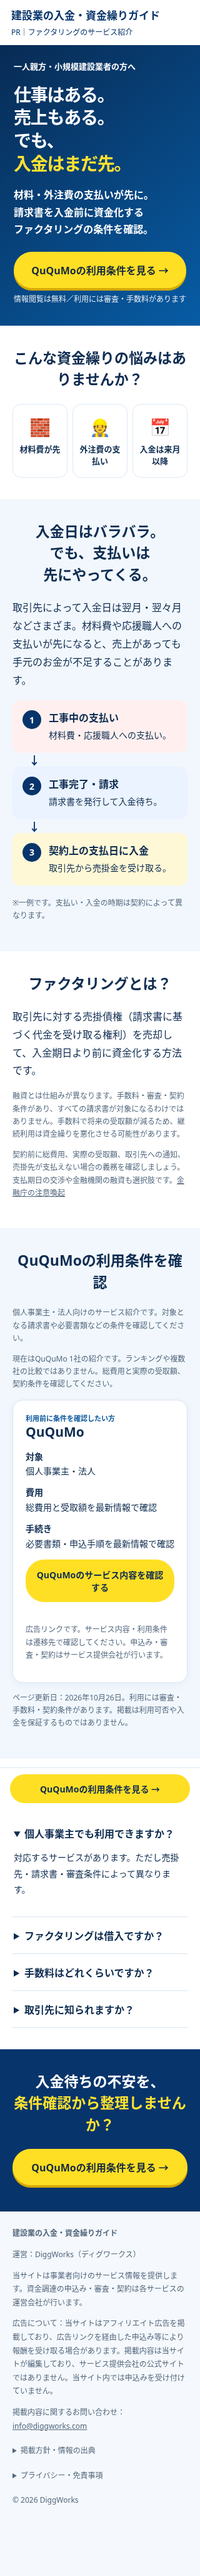
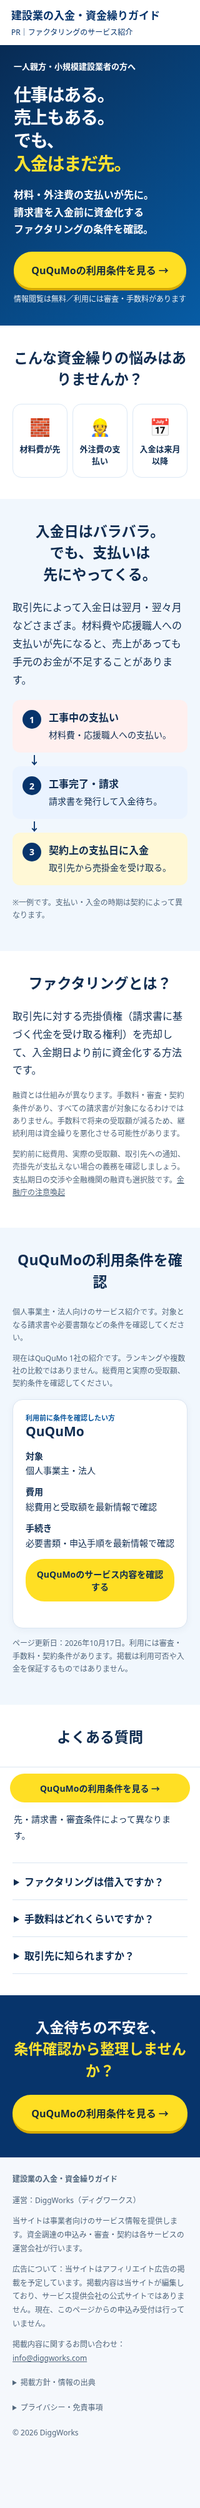
Keep issued A8 code inert pending confirmed placement and material conditions

Changed region(s): [[0.0, 0.0, 1.0, 0.9673]]

diff --git a/index.html b/index.html
@@ -1,4 +1,4 @@
-<!doctype html><html lang="ja"><head><meta charset="utf-8"><meta name="viewport" content="width=device-width,initial-scale=1"><meta name="theme-color" content="#07346b"><meta name="description" content="建設業の一人親方・個人事業主・法人向けに、支払いと入金のズレやファクタリングの注意点、QuQuMoの利用条件の確認ポイントを解説します。利用条件はリンク先で確認してください。"><title>建設業の入金待ちと資金繰り｜QuQuMo利用条件ガイド</title><meta name="robots" content="index,follow"><link rel="canonical" href="https://shikin.diggworks.com/"><meta property="og:type" content="website"><meta property="og:url" content="https://shikin.diggworks.com/"><meta property="og:title" content="建設業の入金待ちと資金繰り｜QuQuMo利用条件ガイド"><meta property="og:description" content="建設業の一人親方・個人事業主・法人向けに、支払いと入金のズレやファクタリングの注意点、QuQuMoの利用条件の確認ポイントを解説します。利用条件はリンク先で確認してください。"><style>
+<!doctype html><html lang="ja"><head><meta charset="utf-8"><meta name="viewport" content="width=device-width,initial-scale=1"><meta name="theme-color" content="#07346b"><meta name="description" content="建設業の一人親方・個人事業主・法人向けに、支払いと入金のズレやファクタリングの注意点、QuQuMoの利用条件の確認ポイントを解説します。申込みのご案内は準備中です。"><title>建設業の入金待ちと資金繰り｜QuQuMo利用条件ガイド</title><meta name="robots" content="index,follow"><link rel="canonical" href="https://shikin.diggworks.com/"><meta property="og:type" content="website"><meta property="og:url" content="https://shikin.diggworks.com/"><meta property="og:title" content="建設業の入金待ちと資金繰り｜QuQuMo利用条件ガイド"><meta property="og:description" content="建設業の一人親方・個人事業主・法人向けに、支払いと入金のズレやファクタリングの注意点、QuQuMoの利用条件の確認ポイントを解説します。申込みのご案内は準備中です。"><style>
 :root{font-family:system-ui,-apple-system,"Hiragino Kaku Gothic ProN","Noto Sans JP",sans-serif;color:#102d51;background:#f5f8fc}*{box-sizing:border-box}body{margin:0}a{color:inherit}header{background:white;padding:14px 18px;font-weight:900;color:#07346b}header small{display:block;font-size:11px;font-weight:500}.wrap{max-width:720px;margin:auto}.hero{background:linear-gradient(140deg,#082b54,#075ca5);color:white;padding:38px 22px 34px}.eyebrow{font-size:13px;font-weight:700}.hero h1{font-size:clamp(30px,8vw,49px);line-height:1.32;letter-spacing:-.045em;margin:18px 0}.yellow{color:#ffe231}.hero p{font-weight:650;line-height:1.7}.btn{display:block;text-align:center;border-radius:40px;background:#ffdf24;color:#14283d;text-decoration:none;font-weight:900;padding:17px 12px;margin:22px 0 8px;box-shadow:0 4px 0 #d5a900}.sub{font-size:12px;text-align:center;opacity:.9}section{padding:34px 20px;background:white}section:nth-of-type(even){background:#f1f7fd}h2{font-size:23px;line-height:1.5;text-align:center;margin:0 0 22px}.cards{display:grid;grid-template-columns:repeat(3,1fr);gap:8px}.mini{padding:17px 6px;border:1px solid #dce8f5;border-radius:14px;text-align:center;font-size:13px;font-weight:750;background:white}.mini b{display:block;font-size:27px;margin-bottom:7px}.timeline{display:flex;justify-content:space-between;gap:7px;margin:18px 0}.step{flex:1;text-align:center;background:#eaf3ff;border-radius:12px;padding:15px 5px;font-size:12px;font-weight:800}.step:first-child{background:#fff0ef}.note{font-size:12px;line-height:1.7;color:#52677d}.choice{display:flex;gap:10px}.choice button{flex:1;padding:17px 5px;border:2px solid #c7d8e9;border-radius:14px;background:white;font-weight:900;color:#12385f;font-size:16px;cursor:pointer}.choice button.active{border-color:#0963bf;background:#eaf4ff}.provider{border:1px solid #dbe5f1;border-radius:16px;padding:20px;margin:14px 0;background:white;box-shadow:0 3px 12px #143a5b0d}.provider h3{font-size:21px;margin:0 0 8px}.provider p{font-size:14px;line-height:1.7}.provider a{display:block;background:#ffdf24;border-radius:30px;padding:14px;text-align:center;font-weight:900;text-decoration:none}.tag{font-size:11px;color:#0b579d;font-weight:800}.faq details{padding:17px 2px;border-bottom:1px solid #d9e5f1}.faq summary{font-weight:800;cursor:pointer}.faq p{line-height:1.8;font-size:14px}footer{padding:24px 20px 100px;font-size:12px;line-height:1.8;color:#52677d}.sticky{position:fixed;bottom:0;left:0;right:0;padding:10px 16px;background:#fffffff2;border-top:1px solid #dce6f1;backdrop-filter:blur(8px)}.sticky a{display:block;max-width:680px;margin:auto;text-align:center;background:#ffdf24;border-radius:30px;padding:13px;text-decoration:none;font-weight:900}.hidden{display:none!important}@media(min-width:760px){.hero{border-radius:0 0 24px 24px}section{border-radius:20px;margin:12px 0}.sticky{display:none}}
 
 html{scroll-padding-bottom:90px}p{line-height:1.8}a,button,summary{touch-action:manipulation}a:focus-visible,button:focus-visible,summary:focus-visible{outline:3px solid #087ad2;outline-offset:4px}.hero h1{font-size:clamp(28px,7.5vw,49px)}.hero{padding-top:24px}.skip{position:absolute;top:-100px;background:white;padding:12px;z-index:10}.skip:focus{top:0}.policy{margin:18px 0}.provider .note{font-size:12px}.sticky{padding-bottom:calc(10px + env(safe-area-inset-bottom))}footer{padding-bottom:calc(110px + env(safe-area-inset-bottom))}@media(prefers-reduced-motion:reduce){html{scroll-behavior:auto}}
@@ -7,5 +7,5 @@ header strong{display:block;font-size:17px;line-height:1.5}header small{margin-t
 .payment-cycle{display:grid;grid-template-columns:minmax(0,1fr);gap:22px;list-style:none;padding:0}.payment-cycle .step{position:relative;display:flex;gap:12px;align-items:flex-start;text-align:left;padding:16px;font-size:14px}.cycle-number{display:grid;place-items:center;flex:0 0 30px;height:30px;border-radius:50%;background:#07346b;color:white;font-size:14px}.payment-cycle .step:last-child{background:#fff8d6}.payment-cycle .step strong{display:block;font-size:16px;line-height:1.5}.payment-cycle .step div{min-width:0}.payment-cycle .step div>span{display:block;margin-top:4px;font-weight:400;line-height:1.7}.payment-cycle .step:not(:last-child)::after{content:"↓";position:absolute;left:26px;bottom:-23px;line-height:22px;color:#07346b;font-size:18px}
 .provider-preview{display:block;width:100%;border:0;background:#ffdf24;color:#14283d;border-radius:30px;padding:14px;text-align:center;font:inherit;font-size:14px;font-weight:900;cursor:not-allowed;overflow-wrap:anywhere}
 #ququmo-affiliate-slot img{width:1px;height:1px;max-width:1px;max-height:1px;border:0}
-</style></head><body><a class="skip" href="#compare">サービス情報へ進む</a><div class="wrap"><header><strong>建設業の入金・資金繰りガイド</strong><small>PR｜ファクタリングのサービス紹介</small></header><main><div class="hero"><div class="eyebrow">一人親方・小規模建設業者の方へ</div><h1>仕事はある。<br>売上もある。<br>でも、<br><span class="yellow">入金はまだ先。</span></h1><p>材料・外注費の支払いが先に。<br>請求書を入金前に資金化する<br>ファクタリングの条件を確認。</p><a class="btn" href="#compare" data-track="hero_compare">QuQuMoの利用条件を見る →</a><div class="sub">情報閲覧は無料／利用には審査・手数料があります</div></div><section><h2>こんな資金繰りの悩みはありませんか？</h2><div class="cards"><div class="mini"><b>🧱</b>材料費が先</div><div class="mini"><b>👷</b>外注費の支払い</div><div class="mini"><b>📅</b>入金は来月以降</div></div></section><section><h2>入金日はバラバラ。<br>でも、支払いは<br>先にやってくる。</h2><p>取引先によって入金日は翌月・翌々月などさまざま。材料費や応援職人への支払いが先になると、売上があっても手元のお金が不足することがあります。</p><ol class="timeline payment-cycle" aria-label="支払いから入金までの流れ"><li class="step"><span class="cycle-number" aria-hidden="true">1</span><div><strong>工事中の支払い</strong><span>材料費・応援職人への支払い。</span></div></li><li class="step"><span class="cycle-number" aria-hidden="true">2</span><div><strong>工事完了・請求</strong><span>請求書を発行して入金待ち。</span></div></li><li class="step"><span class="cycle-number" aria-hidden="true">3</span><div><strong>契約上の支払日に入金</strong><span>取引先から売掛金を受け取る。</span></div></li></ol><p class="note">※一例です。支払い・入金の時期は契約によって異なります。</p></section><section><h2>ファクタリングとは？</h2><p>取引先に対する売掛債権（請求書に基づく代金を受け取る権利）を売却して、入金期日より前に資金化する方法です。</p><p class="note">融資とは仕組みが異なります。手数料・審査・契約条件があり、すべての請求書が対象になるわけではありません。手数料で将来の受取額が減るため、継続利用は資金繰りを悪化させる可能性があります。</p><p class="note">契約前に総費用、実際の受取額、取引先への通知、売掛先が支払えない場合の義務を確認しましょう。支払期日の交渉や金融機関の融資も選択肢です。<a href="https://www.fsa.go.jp/user/factoring.html" rel="noopener">金融庁の注意喚起</a></p></section><section id="compare"><h2>QuQuMoの利用条件を確認</h2><div class="choice" hidden><button type="button" class="active" data-type="individual" aria-pressed="true">個人事業主</button><button type="button" data-type="corporate" aria-pressed="false">法人</button></div><p class="note" id="choice-note" aria-live="polite">個人事業主・法人向けのサービス紹介です。利用には審査があります。</p><p class="note">現在はQuQuMo 1社の紹介です。ランキングや複数社の比較ではありません。総費用と実際の受取額、契約条件を確認してください。</p><div id="provider-list"><article class="provider" data-audience="individual corporate" data-card="ququmo"><div class="tag">利用前に条件を確認したい方</div><h3>QuQuMo</h3><dl><dt>対象</dt><dd>個人事業主・法人</dd><dt>費用</dt><dd>総費用と受取額を最新情報で確認</dd><dt>手続き</dt><dd>必要書類・申込手順を最新情報で確認</dd></dl><div id="ququmo-affiliate-slot" data-status="active"><a href="https://px.a8.net/svt/ejp?a8mat=4BEFL9+A9Q87U+4JGG+BWVTE" rel="nofollow">QuQuMoのサービス内容を確認する</a>
-<img border="0" width="1" height="1" src="https://www14.a8.net/0.gif?a8mat=4BEFL9+A9Q87U+4JGG+BWVTE" alt=""><p class="note">広告リンクです。サービス内容・利用条件は遷移先で確認してください。申込み・審査・契約はサービス提供会社が行います。</p></div></article><article class="provider" data-audience="individual corporate" data-card="accel" data-release-state="pending" hidden><div class="tag">担当者に条件を相談したい方</div><h3>アクセルファクター</h3><dl><dt>対象</dt><dd>個人事業主・法人</dd><dt>費用</dt><dd>0.5%〜。契約方式・審査で変動</dd><dt>手続き</dt><dd>書類・電話確認が必要。必要額と売掛金の条件を確認</dd></dl><a href="https://accelfacter.co.jp/service/encashment.php" data-provider="accel" data-track="compare_accel" rel="noopener">アクセルファクターの公式条件を確認 →</a></article><article class="provider" data-audience="corporate" data-card="mynavi" data-release-state="pending" hidden><div class="tag">法人向けの見積もりを比較したい方</div><h3>マイナビブリッジ</h3><dl><dt>対象</dt><dd>法人</dd><dt>費用</dt><dd>申込条件と総費用を公式ページで確認</dd><dt>手続き</dt><dd>本人確認書類などが必要。希望金額に合う申込窓口を確認</dd></dl><a href="https://mynavibridge.jp/asp/factoring" data-provider="mynavi" data-track="compare_mynavi" rel="noopener">マイナビブリッジの公式条件を確認 →</a></article><article class="provider" data-audience="individual corporate" data-card="support" data-release-state="pending" hidden><div class="tag">資金繰りの相談先を比較したい方</div><h3>日本中小企業金融サポート機構</h3><dl><dt>対象</dt><dd>個人事業主・法人</dd><dt>費用</dt><dd>契約方式・見積もりによる</dd><dt>手続き</dt><dd>売掛金の内容・必要書類・契約方法を確認</dd></dl><a href="https://chushokigyo-support.or.jp/support/factoring/" data-provider="support" data-track="compare_support" rel="noopener">日本中小企業金融サポート機構の公式条件を確認 →</a></article><article class="provider" data-audience="corporate" data-card="try" data-release-state="pending" hidden><div class="tag">法人向けの別の相談先も見たい方</div><h3>ファクタリングのTRY</h3><dl><dt>対象</dt><dd>法人向け比較候補</dd><dt>費用</dt><dd>見積もりによる</dd><dt>手続き</dt><dd>売掛金・必要書類を確認し、審査を経て契約</dd></dl><a href="https://www.factoring-try-sko.co.jp/" data-provider="try" data-track="compare_try" rel="noopener">ファクタリングのTRYの公式条件を確認 →</a></article></div><button id="more-providers" type="button" aria-expanded="false" aria-controls="provider-list" hidden>法人向けの追加候補を見る（2社）</button><p class="note">ページ更新日：2026年10月26日。利用には審査・手数料・契約条件があります。掲載は利用可否や入金を保証するものではありません。</p><noscript><p class="note">JavaScriptが無効なため操作計測は行いません。QuQuMoの紹介のみ表示しています。利用条件はリンク先で確認してください。</p></noscript></section><section class="faq"><h2>よくある質問</h2><details><summary>個人事業主でも利用できますか？</summary><p>対応するサービスがあります。ただし売掛先・請求書・審査条件によって異なります。</p></details><details><summary>ファクタリングは借入ですか？</summary><p>一般的な債権売買型ファクタリングは融資とは異なります。契約内容によって実態が異なる場合があるため確認が必要です。</p></details><details><summary>手数料はどれくらいですか？</summary><p>売掛先や審査内容、契約形態で変わります。見積額だけでなく受取額と契約条件を比較しましょう。</p></details><details><summary>取引先に知られますか？</summary><p>契約方式によって異なります。通知の有無や債権譲渡登記など、事前に確認してください。</p></details></section><section style="background:#07346b;color:white"><h2>入金待ちの不安を、<br><span class="yellow">条件確認から整理しませんか？</span></h2><a class="btn" href="#compare" data-track="bottom_compare">QuQuMoの利用条件を見る →</a></section></main><footer id="operator"><strong>建設業の入金・資金繰りガイド</strong><p>運営：DiggWorks（ディグワークス）</p><p>当サイトは事業者向けのサービス情報を提供します。資金調達の申込み・審査・契約は各サービスの運営会社が行います。</p><p>広告について：当サイトはアフィリエイト広告を掲載しており、広告リンクを経由した申込み等により報酬を受け取る場合があります。掲載内容は当サイトが編集しており、サービス提供会社の公式サイトではありません。当サイト内では申込みを受け付けていません。</p><p id="contact">掲載内容に関するお問い合わせ：<a href="mailto:info@diggworks.com">info@diggworks.com</a></p><details class="policy"><summary>掲載方針・情報の出典</summary><p>建設業の入金待ちを整理するため、QuQuMoの利用条件を確認する情報を掲載しています。現在は1社の紹介で、複数社のランキングではありません。総費用・受取額・必要書類・契約条件を確認して判断してください。</p><p>公式情報の過去の確認日：2026年10月14日。参照先は https://ququmo.com/ です。サービス条件の最新確認は未完了です。利用前には最新の対象条件・総費用・必要書類を確認してください。</p></details><details class="policy"><summary>プライバシー・免責事項</summary><p>当サイトはアクセス状況の把握と改善のため、JavaScriptが有効な場合にGoogle Analyticsを使用します。Cookie等によりアクセス情報が収集される場合があります。当サイトの操作イベントではURLのクエリ・フラグメントを除外し、氏名・メールアドレス・電話番号・請求書情報を送信項目に含めません。</p><p>詳しくは<a href="https://policies.google.com/privacy?hl=ja" rel="noopener">Googleのプライバシーポリシー</a>と<a href="https://policies.google.com/technologies/partner-sites?hl=ja" rel="noopener">Googleによるデータの利用</a>をご確認ください。アクセス解析の停止には<a href="https://tools.google.com/dlpage/gaoptout?hl=ja" rel="noopener">Googleのオプトアウトアドオン</a>を利用できます。</p><p>QuQuMoの広告リンクと1px計測画像にはA8.netを使用します。ページ表示時に計測画像が読み込まれ、広告リンクのクリック時にはA8.netを経由して外部サイトへ移動します。A8.net側でCookie等を用いた広告計測が行われる場合があります。詳しくは<a href="https://www.a8.net/privacy.html" rel="noopener">A8.netのプライバシーポリシー</a>をご確認ください。配信元のGitHub Pagesではアクセス情報が処理される場合があります。お問い合わせは上記の運営者連絡先へお願いします。</p><p>利用可否、手数料、入金時期は各社の審査・契約によります。本ページに申込フォームはなく、利用条件はリンク先で確認してください。契約前には最新の公式情報と見積もりを確認してください。</p></details>© 2026 DiggWorks</footer></div><div class="sticky"><a href="#compare" data-track="sticky_compare">QuQuMoの利用条件を見る →</a></div><script src="assets/config.js" defer></script><script src="assets/analytics.js" defer></script></body></html>
+</style></head><body><a class="skip" href="#compare">サービス情報へ進む</a><div class="wrap"><header><strong>建設業の入金・資金繰りガイド</strong><small>PR｜ファクタリングのサービス紹介</small></header><main><div class="hero"><div class="eyebrow">一人親方・小規模建設業者の方へ</div><h1>仕事はある。<br>売上もある。<br>でも、<br><span class="yellow">入金はまだ先。</span></h1><p>材料・外注費の支払いが先に。<br>請求書を入金前に資金化する<br>ファクタリングの条件を確認。</p><a class="btn" href="#compare" data-track="hero_compare">QuQuMoの利用条件を見る →</a><div class="sub">情報閲覧は無料／利用には審査・手数料があります</div></div><section><h2>こんな資金繰りの悩みはありませんか？</h2><div class="cards"><div class="mini"><b>🧱</b>材料費が先</div><div class="mini"><b>👷</b>外注費の支払い</div><div class="mini"><b>📅</b>入金は来月以降</div></div></section><section><h2>入金日はバラバラ。<br>でも、支払いは<br>先にやってくる。</h2><p>取引先によって入金日は翌月・翌々月などさまざま。材料費や応援職人への支払いが先になると、売上があっても手元のお金が不足することがあります。</p><ol class="timeline payment-cycle" aria-label="支払いから入金までの流れ"><li class="step"><span class="cycle-number" aria-hidden="true">1</span><div><strong>工事中の支払い</strong><span>材料費・応援職人への支払い。</span></div></li><li class="step"><span class="cycle-number" aria-hidden="true">2</span><div><strong>工事完了・請求</strong><span>請求書を発行して入金待ち。</span></div></li><li class="step"><span class="cycle-number" aria-hidden="true">3</span><div><strong>契約上の支払日に入金</strong><span>取引先から売掛金を受け取る。</span></div></li></ol><p class="note">※一例です。支払い・入金の時期は契約によって異なります。</p></section><section><h2>ファクタリングとは？</h2><p>取引先に対する売掛債権（請求書に基づく代金を受け取る権利）を売却して、入金期日より前に資金化する方法です。</p><p class="note">融資とは仕組みが異なります。手数料・審査・契約条件があり、すべての請求書が対象になるわけではありません。手数料で将来の受取額が減るため、継続利用は資金繰りを悪化させる可能性があります。</p><p class="note">契約前に総費用、実際の受取額、取引先への通知、売掛先が支払えない場合の義務を確認しましょう。支払期日の交渉や金融機関の融資も選択肢です。<a href="https://www.fsa.go.jp/user/factoring.html" rel="noopener">金融庁の注意喚起</a></p></section><section id="compare"><h2>QuQuMoの利用条件を確認</h2><div class="choice" hidden><button type="button" class="active" data-type="individual" aria-pressed="true">個人事業主</button><button type="button" data-type="corporate" aria-pressed="false">法人</button></div><p class="note" id="choice-note" aria-live="polite">個人事業主・法人向けのサービス紹介です。利用には審査があります。</p><p class="note">現在はQuQuMo 1社の紹介です。ランキングや複数社の比較ではありません。総費用と実際の受取額、契約条件を確認してください。</p><div id="provider-list"><article class="provider" data-audience="individual corporate" data-card="ququmo"><div class="tag">利用前に条件を確認したい方</div><h3>QuQuMo</h3><dl><dt>対象</dt><dd>個人事業主・法人</dd><dt>費用</dt><dd>総費用と受取額を最新情報で確認</dd><dt>手続き</dt><dd>必要書類・申込手順を最新情報で確認</dd></dl><div id="ququmo-affiliate-slot" data-status="pending"><button class="provider-preview" type="button" data-provider="ququmo" data-track="compare_ququmo" data-preview-cta="true" data-public-url="https://ququmo.com/" aria-disabled="true">QuQuMoのサービス内容を確認する</button><p class="note">ご案内は準備中です。現在、このページからお申込みいただくことはできません。</p><template id="ququmo-a8-code"><a href="https://px.a8.net/svt/ejp?a8mat=4BEFL9+A9Q87U+4JGG+BWVTE" rel="nofollow">キャッチコピーやサービス内容＋【サービス名】をご入力下さい。</a>
+<img border="0" width="1" height="1" src="https://www14.a8.net/0.gif?a8mat=4BEFL9+A9Q87U+4JGG+BWVTE" alt=""></template></div></article><article class="provider" data-audience="individual corporate" data-card="accel" data-release-state="pending" hidden><div class="tag">担当者に条件を相談したい方</div><h3>アクセルファクター</h3><dl><dt>対象</dt><dd>個人事業主・法人</dd><dt>費用</dt><dd>0.5%〜。契約方式・審査で変動</dd><dt>手続き</dt><dd>書類・電話確認が必要。必要額と売掛金の条件を確認</dd></dl><a href="https://accelfacter.co.jp/service/encashment.php" data-provider="accel" data-track="compare_accel" rel="noopener">アクセルファクターの公式条件を確認 →</a></article><article class="provider" data-audience="corporate" data-card="mynavi" data-release-state="pending" hidden><div class="tag">法人向けの見積もりを比較したい方</div><h3>マイナビブリッジ</h3><dl><dt>対象</dt><dd>法人</dd><dt>費用</dt><dd>申込条件と総費用を公式ページで確認</dd><dt>手続き</dt><dd>本人確認書類などが必要。希望金額に合う申込窓口を確認</dd></dl><a href="https://mynavibridge.jp/asp/factoring" data-provider="mynavi" data-track="compare_mynavi" rel="noopener">マイナビブリッジの公式条件を確認 →</a></article><article class="provider" data-audience="individual corporate" data-card="support" data-release-state="pending" hidden><div class="tag">資金繰りの相談先を比較したい方</div><h3>日本中小企業金融サポート機構</h3><dl><dt>対象</dt><dd>個人事業主・法人</dd><dt>費用</dt><dd>契約方式・見積もりによる</dd><dt>手続き</dt><dd>売掛金の内容・必要書類・契約方法を確認</dd></dl><a href="https://chushokigyo-support.or.jp/support/factoring/" data-provider="support" data-track="compare_support" rel="noopener">日本中小企業金融サポート機構の公式条件を確認 →</a></article><article class="provider" data-audience="corporate" data-card="try" data-release-state="pending" hidden><div class="tag">法人向けの別の相談先も見たい方</div><h3>ファクタリングのTRY</h3><dl><dt>対象</dt><dd>法人向け比較候補</dd><dt>費用</dt><dd>見積もりによる</dd><dt>手続き</dt><dd>売掛金・必要書類を確認し、審査を経て契約</dd></dl><a href="https://www.factoring-try-sko.co.jp/" data-provider="try" data-track="compare_try" rel="noopener">ファクタリングのTRYの公式条件を確認 →</a></article></div><button id="more-providers" type="button" aria-expanded="false" aria-controls="provider-list" hidden>法人向けの追加候補を見る（2社）</button><p class="note">ページ更新日：2026年10月17日。利用には審査・手数料・契約条件があります。掲載は利用可否や入金を保証するものではありません。</p><noscript><p class="note">JavaScriptが無効なため操作計測は行いません。QuQuMoの紹介のみ表示しています。申込みのご案内は準備中です。</p></noscript></section><section class="faq"><h2>よくある質問</h2><details><summary>個人事業主でも利用できますか？</summary><p>対応するサービスがあります。ただし売掛先・請求書・審査条件によって異なります。</p></details><details><summary>ファクタリングは借入ですか？</summary><p>一般的な債権売買型ファクタリングは融資とは異なります。契約内容によって実態が異なる場合があるため確認が必要です。</p></details><details><summary>手数料はどれくらいですか？</summary><p>売掛先や審査内容、契約形態で変わります。見積額だけでなく受取額と契約条件を比較しましょう。</p></details><details><summary>取引先に知られますか？</summary><p>契約方式によって異なります。通知の有無や債権譲渡登記など、事前に確認してください。</p></details></section><section style="background:#07346b;color:white"><h2>入金待ちの不安を、<br><span class="yellow">条件確認から整理しませんか？</span></h2><a class="btn" href="#compare" data-track="bottom_compare">QuQuMoの利用条件を見る →</a></section></main><footer id="operator"><strong>建設業の入金・資金繰りガイド</strong><p>運営：DiggWorks（ディグワークス）</p><p>当サイトは事業者向けのサービス情報を提供します。資金調達の申込み・審査・契約は各サービスの運営会社が行います。</p><p>広告について：当サイトはアフィリエイト広告の掲載を予定しています。掲載内容は当サイトが編集しており、サービス提供会社の公式サイトではありません。現在、このページからの申込み受付は行っていません。</p><p id="contact">掲載内容に関するお問い合わせ：<a href="mailto:info@diggworks.com">info@diggworks.com</a></p><details class="policy"><summary>掲載方針・情報の出典</summary><p>建設業の入金待ちを整理するため、QuQuMoの利用条件を確認する情報を掲載しています。現在は1社の紹介で、複数社のランキングではありません。総費用・受取額・必要書類・契約条件を確認して判断してください。</p><p>公式情報の過去の確認日：2026年10月14日。参照先は https://ququmo.com/ です。サービス条件の最新確認は未完了です。利用前には最新の対象条件・総費用・必要書類を確認してください。</p></details><details class="policy"><summary>プライバシー・免責事項</summary><p>当サイトはアクセス状況の把握と改善のため、JavaScriptが有効な場合にGoogle Analyticsを使用します。Cookie等によりアクセス情報が収集される場合があります。当サイトの操作イベントではURLのクエリ・フラグメントを除外し、氏名・メールアドレス・電話番号・請求書情報を送信項目に含めません。</p><p>詳しくは<a href="https://policies.google.com/privacy?hl=ja" rel="noopener">Googleのプライバシーポリシー</a>と<a href="https://policies.google.com/technologies/partner-sites?hl=ja" rel="noopener">Googleによるデータの利用</a>をご確認ください。アクセス解析の停止には<a href="https://tools.google.com/dlpage/gaoptout?hl=ja" rel="noopener">Googleのオプトアウトアドオン</a>を利用できます。</p><p>広告リンクによる外部送客は現在停止しています。配信元のGitHub Pagesではアクセス情報が処理される場合があります。お問い合わせは上記の運営者連絡先へお願いします。</p><p>利用可否、手数料、入金時期は各社の審査・契約によります。本ページに申込フォームはなく、申込みのご案内は準備中です。契約前には最新の公式情報と見積もりを確認してください。</p></details>© 2026 DiggWorks</footer></div><div class="sticky"><a href="#compare" data-track="sticky_compare">QuQuMoの利用条件を見る →</a></div><script src="assets/config.js" defer></script><script src="assets/analytics.js" defer></script></body></html>

diff --git a/assets/config.js b/assets/config.js
@@ -4,5 +4,5 @@ window.LP_CONFIG = {
   contactEmail: 'info@diggworks.com', // Verified public operator inbox
   pageVersion: '20261026-a8-candidate',
   activeProviders: ['ququmo'], // Other provider records are retained, not approved for display.
-  previewMode: true // Retain the stop for legacy provider controls; the explicit QuQuMo A8 slot is separate.
+  previewMode: true // Keep all visible provider CTAs inactive pending placement/material conditions.
 };

diff --git a/scripts/check-static.py b/scripts/check-static.py
@@ -1,35 +1,42 @@
 from html.parser import HTMLParser
 from pathlib import Path
-
 LINK='https://px.a8.net/svt/ejp?a8mat=4BEFL9+A9Q87U+4JGG+BWVTE'
 PIXEL='https://www14.a8.net/0.gif?a8mat=4BEFL9+A9Q87U+4JGG+BWVTE'
 class Page(HTMLParser):
     def __init__(self):
-        super().__init__(); self.ids=set(); self.links=[]; self.scripts=[]; self.cards={}; self.resources=[]; self.ad_links=[]; self.pixels=[]; self.active_slot=False
+        super().__init__(); self.ids=set(); self.links=[]; self.scripts=[]; self.cards={}; self.resources=[]; self.ad_links=[]; self.pixels=[]; self.pending=False; self.depth=0; self.preview=[]; self.material_text=[]
     def handle_starttag(self,tag,attrs):
         a=dict(attrs)
+        if tag=='template': self.depth+=1
         if 'id' in a:
-            assert a['id'] not in self.ids, 'duplicate ID'
+            assert a['id'] not in self.ids
             self.ids.add(a['id'])
-        if tag=='a':
-            self.links.append(a.get('href',''))
-            if 'a8mat' in a.get('href','') or 'px.a8.net' in a.get('href',''): self.ad_links.append(a)
+        if self.depth:
+            if tag=='a': self.ad_links.append(a)
+            elif tag=='img': self.pixels.append(a)
+            else: assert tag=='template'
+            return
+        if tag=='a': self.links.append(a.get('href',''))
         if tag=='script' and 'src' in a: self.scripts.append(a['src'])
-        if 'src' in a:
-            self.resources.append(a['src'])
-            if 'a8.net' in a['src']: self.pixels.append(a)
-        if a.get('id')=='ququmo-affiliate-slot': self.active_slot=a.get('data-status')=='active'
+        if 'src' in a: self.resources.append(a['src'])
+        if a.get('id')=='ququmo-affiliate-slot': self.pending=a.get('data-status')=='pending'
         if 'data-card' in a: self.cards[a['data-card']]='hidden' in a
+        if a.get('data-preview-cta')=='true': self.preview.append(a)
+    def handle_endtag(self,tag):
+        if tag=='template':self.depth-=1
+    def handle_data(self,data):
+        if self.depth and data.strip():self.material_text.append(data.strip())
 p=Page();p.feed(Path('index.html').read_text())
 for link in p.links:
-    assert link, 'empty href'
-    if link.startswith('#'): assert link[1:] in p.ids, link
-for source in p.scripts: assert Path(source).is_file(), source
+    assert link
+    if link.startswith('#'): assert link[1:] in p.ids
+for source in p.scripts: assert Path(source).is_file()
 assert Path('CNAME').read_text().strip()=='shikin.diggworks.com'
 assert p.cards=={'ququmo':False,'accel':True,'mynavi':True,'support':True,'try':True}
-# Exact issued URLs and attributes; no extra parameters, lazy-loading, or duplicate pixel.
 assert p.ad_links==[{'href':LINK,'rel':'nofollow'}]
 assert p.pixels==[{'border':'0','width':'1','height':'1','src':PIXEL,'alt':''}]
-assert p.active_slot and 'ququmo-a8-code' not in p.ids
-assert not any('ququmo.com' in x for x in p.links)
-print('PASS: internal targets, assets, CNAME, exact single A8 link/pixel, retained hidden providers')
+assert p.material_text==['キャッチコピーやサービス内容＋【サービス名】をご入力下さい。']
+assert p.pending and 'ququmo-a8-code' in p.ids
+assert len(p.preview)==1 and p.preview[0]['aria-disabled']=='true'
+assert not any('a8.net' in u or 'a8mat' in u or 'ququmo.com' in u for u in p.links+p.resources)
+print('PASS: exact original A8 code held inert; no live link/pixel, stopped CTA, internal targets/assets/CNAME, other providers hidden')

diff --git a/docs/ququmo-a8-review-20261026.md b/docs/ququmo-a8-review-20261026.md
@@ -1,62 +1,75 @@
-# QuQuMo A8リンク実装候補・公開判定
+# QuQuMo A8原文コードの保持・実装準備レビュー
 
 確認日: 2026-10-26（日本時間）。基準main: `58a51813aa70cbbfcb31e2feb21ffa3dd4172f0c`。
-ブランチ: `feat/ququmo-a8-link-20261026`。このブランチは広告リンク稼働の候補で、main未反映。
+ブランチ: `feat/ququmo-a8-link-20261026`。**停止状態の実装準備。main未反映。**
 
-## 承認範囲と判定
+## 公開判定と承認範囲
 
-利用者は今回の変更のPR・mainマージ・GitHub Pages公開・必要最小限の通常遷移確認を承認した。検索広告の出稿・課金、申込み、問い合わせ送信は対象外。掲載条件が残ればPRまで進め、稼働化マージは保留するという指示を優先する。
+利用者は当初、条件を満たした場合のPR・mainマージ・GitHub Pages公開・必要最小限の通常遷移確認を承認した。その後、下記の確認範囲を共有し、**現在は条件確認済みとして公開・送客開始せず、原文コードを保持した実装準備まで**と指定した。最新指示を優先し、mainマージ・本番反映・実クリックは行わない。検索広告の出稿・課金、申込み、問い合わせ送信も対象外。
 
-**現時点はマージ保留。** 過去の記録には現在のドメイン・掲載面での通常掲載可否とコード/素材取扱いが未確認として残る。今回、A8発行コード一式は利用者から受領した。提携状況は過去資料による利用者申告で、アカウント画面の独立確認ではない。発行コード受領から比較/紹介LPの個別許可を推定しない。一方、検索広告の許可未確認を通常掲載禁止の根拠にしない。
+初回候補コミット`909d5ec`には稼働候補があったが、最新headでは停止状態に戻した。古いコミットを公開対象にしない。
 
-### 公開前に解消する確認
+## 確認済み（利用者申告、2026-10-26）
 
-1. shikin.diggworks.com の現在のQuQuMo単社紹介ページを登録媒体として通常掲載できるか。適用されるプログラム条件と照合し、必要な掲載URL提出・個別審査があれば完了を確認する。必ず個別許可が必要だと断定しているわけではない。
-2. 受領コードが対象サイト用の自由テキスト素材であり、「QuQuMoのサービス内容を確認する」への文言変更、既存の黄色CTA装飾、1px画像サイズ固定が許容されるか。コード内のプレースホルダーは文言入力を示すが、素材説明の全条件を検証できていない。
-3. 指定リンクの実到達先と掲載内容の整合。実コード・素材の取り扱いが確認できてから、許容される最小限の通常クリックで確認する。自己/架空申込みはしない。
+- 広告主は株式会社アクティブサポート、案件はQuQuMo online。
+- 素材取得画面で掲載サイト「建設業の入金・資金繰りガイド」を選択し、通常広告用のテキスト素材からコード一式を取得。
+- 原文の表示文言には「キャッチコピーやサービス内容＋【サービス名】をご入力下さい。」という入力指示がある。
 
-A8公式サポート、公開LP、QuQuMo公式ページのHTTPS取得は通常と権限昇格後の両方でCONNECTトンネル403。サイト自身の403や掲載禁止の証拠ではない。条件確認のため申請/問い合わせ送信は行っていない。会員向け条件・報酬・アカウント画面・私的資料は転載しない。
+当環境で認証済み会員画面を独立確認したものではない。コード取得と現在のページ構成への個別許可を同一視しない。個別許可が必須とも断定せず、適用される掲載条件を確認する。検索広告の許可未確認から通常掲載禁止を推定しない。
 
-## 実装内容と差分
+## 未確認・公開前に解消すること
 
-- 停止ボタンと空templateを、受領したA8アンカーと付属1px画像の一組に置換。リンクURL、a8mat、画像URL、rel=nofollow、画像のborder/width/height/altを保持。独自パラメータ、独自リダイレクト、lazy-loadなし。
-- 文言は利用者指定を採用。広告素材の文言/CSS許可は上記の確認待ち。既存providerの黄色リンクスタイルを再利用。画像のみ1pxに固定。
-- A8要素にdata属性を追加せず、親枠からclickを委譲。1操作につき`cta_click`と`provider_outbound`を各1回、`link_kind:affiliate`で識別。クリックは到着・申込・成約・成果承認ではない。
-- 計測例外を捕捉し、preventDefaultや送信完了待ちは行わない。ネイティブリンクとしてJS無効/計測失敗でも遷移できる。送信完了を保証する実装ではない。
-- GA4 ID、タグ生成、初回手動page_view、自動送信停止、query/hashを除いたpage_locationを維持。
-- 他社HTML/URL/停止処理は変更なし。`previewMode:true`は旧provider操作の停止用として保持し、新設QuQuMo枠とは分離。フラグだけを見て「全送客停止」と判断しない。
-- PR表示を維持し、広告リンク付近とフッターに広告/外部送信を説明。準備中表現は候補版の実態に合わせて変更。サービス料率・速度・実績は追加していない。
-- 固定コピー、青白黄、縦3段図、黄色内部/固定CTA、CNAME、SEO公開方式、所有権確認ファイルは維持。
+| 項目 | 必要な確認 |
+| --- | --- |
+| 通常掲載 | 現在のドメイン・QuQuMo単社紹介の内容/構成への通常掲載可否。掲載URL提出・事前審査・個別許可が必要かを適用条件と照合 |
+| 自由テキスト | 許容表現とNG表現。候補「QuQuMoのサービス内容を確認する」は利用者案で、広告主承認文言ではない |
+| 装飾/属性 | 既存黄色CTAのCSSによるボタン化、HTML属性追加/変更、計測画像のサイズ固定の可否。今回は原文アンカー/画像にdata属性を加えていない |
+| コード/画像 | 発行URL・パラメータ・rel・画像の保持方法と所定の設置/読み込み条件。外部画像を省略・遅延・置換してよいと推定しない |
+| 実到達先 | 条件解消後に許される最小限の通常操作で確認。現時点は実クリックしない |
 
-## 検証（各コマンド終了コード0）
+A8公式サポート、公開LP、QuQuMo公式ページのHTTPS取得は通常・権限昇格後の両方でCONNECTトンネル403。サイト側403や掲載禁止の証拠ではない。申請/問い合わせ送信は行っていない。非公開条件・報酬・会員画面はGitHubへ転載しない。必要なのは公開可能な条件確認の要約と確認日時である。
+
+## 最終実装（停止状態）
+
+- `template#ququmo-a8-code`内に提供原文のアンカーと1px画像を保持。表示文言もプレースホルダー原文のまま。URL、a8mat、rel、border/width/height/altの変更なし。
+- templateは不活性で、本番コードは展開しない。可視CTAはhrefのない停止ボタン、`data-status:pending`、`previewMode:true`。JS無効/設定失敗でも送客・画像読込みなし。
+- ボタンの表示案のみ「QuQuMoのサービス内容を確認する」。原文コードの文字列は変更していない。
+- 将来のactive枠に対するクリック委譲を準備。原文へのdata属性追加なし。テスト内でのみactive化し、`cta_click`と`provider_outbound`を1操作各1回、`link_kind:affiliate`として検証。
+- 計測例外で遷移を止めないよう捕捉し、preventDefault/送信待ちはしない。送信完了を保証するものではない。
+- 今は停止CTAの`cta_click`（disabled:true）だけで、外部クリックは発火しない。GA4 ID・タグ・手動page_view1回・自動停止・query/hashなしpage_locationは維持。
+- 画像拡大防止の1px CSSを準備したが、画像は不活性。装飾の許可取得済みとはしない。
+- 固定コピー、青白黄、縦3段、黄色内部/固定CTA、PR・停止/プライバシー表記、他社URL/非表示/停止処理、CNAME、SEO、所有権確認ファイルは保持。
+
+## 検証（最終コード、各終了コード0）
 
 | コマンド | 結果 |
 | --- | --- |
-| `python3 scripts/check-static.py` | PASS。元の停止専用検査を、リンク/画像の属性・URL完全一致、各1個、他社非表示、内部アンカー、CNAME検査へ更新。初回はプライバシーリンクも広告扱いして失敗、判定を広告URLへ限定して再実行成功 |
+| `python3 scripts/check-static.py` | PASS。原文コード属性/文字列、各1個をtemplate内に保持、稼働A8リンク/画像なし、停止CTA、他社非表示、内部アンカー、CNAME |
 | `node scripts/test-ui.cjs` | PASS。旧複数社切替・開閉・イベント互換 |
 | `node --check assets/analytics.js` | PASS |
 | `node --check assets/config.js` | PASS |
-| `node scripts/test-ga4.cjs` | PASS。タグ/config単一、自動page_view停止、手動1回、旧停止CTA互換、query除外 |
+| `node scripts/test-ga4.cjs` | PASS。タグ/config単一、自動page_view停止、手動1回、停止CTA、query除外 |
 | `python3 scripts/check-seo.py` | PASS |
-| `node scripts/test-a8.cjs` | PASS。Chromium 320/375/390px×高さ640、FAQ、内部/固定CTA、キーボード、横溢れなし、CTA横切れなし、初期hero/固定CTA重なりなし、画像1px/要求1回、手動page_view1回、広告操作2種各1回、JS無効・計測失敗時の遷移 |
+| `node scripts/test-a8.cjs` | PASS。Chromium 320/375/390px×高さ640、ソース停止・画像通信なし、FAQ/内部/固定CTA、横溢れ/CTA横切れ/初期hero重なりなし。テストだけでactive化し、キーボード遷移モック、画像1px/要求1回、page_view1回、操作2種各1回、計測失敗でも遷移。JS無効では停止維持 |
 | `git diff --check` | PASS |
 
-[機械検証結果](evidence/a8-link-20261026/results.json)、[375px変更前](evidence/a8-link-20261026/before-375.png)、[375px実装候補](evidence/a8-link-20261026/candidate-375.png)。320/390pxも同フォルダ。
+[機械検証結果](evidence/a8-link-20261026/results.json)、[375px変更前](evidence/a8-link-20261026/before-375.png)、[375px停止中の準備版](evidence/a8-link-20261026/prepared-375.png)、[375pxローカル限定active試験](evidence/a8-link-20261026/candidate-375.png)。320/390pxも同フォルダ。candidate画像は承認済み公開版ではない。
 
-すべての第三者通信をモックしており、実A8クリックは0回。ブラウザテストの遷移先もモックで、QuQuMo到着ではない。旧`test-payment-cycle.cjs`は停止版/基準版比較用で、稼働候補の期待値とは異なるため今回未実行。今回のブラウザ検証は`test-a8.cjs`を使用する。実機、文字拡大、スクリーンリーダー、5秒理解、CVRは未確認。
+全ての第三者通信をモックし、実A8クリックは0回。モック遷移はQuQuMo到着ではない。旧`test-payment-cycle.cjs`は空templateの停止版/基準版用で、原文保管を含む今回の期待値とは異なるため未実行。ブラウザ検証は新しい`test-a8.cjs`を使用。実機・文字拡大・スクリーンリーダー・5秒理解・CVRは未確認。初回の静的検査はプライバシーリンクも広告扱いして失敗し、広告URLの判定へ修正後成功（その後停止版の原文保持検査に更新）。停止ボタンの通常click試験はPlaywrightがaria-disabledを尊重してタイムアウトしたため、停止ハンドラの防御検査に限りforce clickを使い、外部要求/外部イベント0を再検証した。
 
-## 公開・計測の状態
+## GitHubと公開・計測の状態
+
+- 作業ブランチをpush済み。PR作成は通常/権限昇格とも`Post https://api.github.com/graphql: Forbidden`、終了コード1。PRは作成できていない。Git push可否とAPI権限は別。403のサーバー側の具体的な認可条件は当環境から未確定。
+- [手動PR作成画面](https://github.com/going-ux/shikin-lp/compare/main...feat/ququmo-a8-link-20261026?expand=1)。本ファイルを本文に使用し、Draftで作成する。掲載/素材条件未確認のためマージしない。
 
 | 項目 | 状態 |
 | --- | --- |
-| main/Pages | 今回のリンク候補は未マージ・未公開。基準mainはPR #8と所有権確認ファイルを含む |
-| 公開LPの取得 | 通信プロキシ403で未確認 |
-| 公開LP→QuQuMo | 未実施。条件保留につき実クリックなし |
+| main/Pages | 今回変更は未マージ・未公開。基準mainはPR #8と所有権確認ファイルを含む |
+| 公開LP取得 | 通信プロキシ403で未確認 |
+| 公開LP→QuQuMo | 未実施。最新指示と条件保留により実クリックなし |
 | GA4イベント | 実装/ローカルキュー検証済み。ネットワーク送信は未確認 |
-| GA4管理画面の実受信 | 未確認。認証済み管理画面なし |
-| A8管理画面のクリック反映 | 未確認。認証済み管理画面なし |
+| GA4管理画面実受信 | 未確認。認証済み画面なし |
+| A8クリック反映 | 未確認。認証済み画面なし |
 | A8成果帰属 | 未確認。クリック/画像要求から成果を推定しない |
 
-## 次の作業
-
-掲載/素材条件の公開可能な確認要約を得る。適用条件を満たしたら最新mainとの差分・保護/必須チェックを再確認し、承認済み範囲でPRをマージする。GitHub Pages成功と対象コード反映、必要最小限の許された通常遷移、GA4送信/受信、A8クリックを別々に確認する。検索広告/課金/申込/問い合わせ送信は行わない。
+次は通常掲載/素材条件の要約を確認し、適用条件と実装差分を再評価する。稼働化には原文を設置する別差分、許された文言/装飾とプライバシーの整合、再テスト、PRレビュー/保護ルール確認が必要。現在の指示では実装準備までであり、公開・送客開始に進めない。

diff --git a/docs/improvement-log.md b/docs/improvement-log.md
@@ -126,3 +126,8 @@
 - 基準main58a5181、未コミット変更なしからfeat/ququmo-a8-link-20261026を作成。利用者提供コードのURL/パラメータ/rel/1px画像を維持し、黄色CTA候補と広告/プライバシー表記を実装。親枠のイベント委譲でcta_click/provider_outbound各1回、計測例外でもネイティブ遷移を維持。他社・GA4 ID・CNAME・固定コピーを維持。
 - 必須4コマンド、GA4/SEO、320/375/390px Chromiumの新規広告候補テスト、差分検査成功。第三者通信は全てモック。実A8クリック・申込み・問い合わせ・広告費発生なし。テスト詳細/画像/失敗修正は[レビュー](ququmo-a8-review-20261026.md)。
 - マージ/公開は利用者承認済み。ただし現在の掲載面の通常掲載可否と素材文言/CSS条件の確認記録が残り、条件保留を優先。公式/公開サイト読取りは通常/権限昇格とも通信経路403。検索広告未確認を通常掲載禁止の理由にしない。GA4実送信/管理画面受信・A8反映/成果は未確認。
+
+### 同日追記 — 掲載範囲の共有と停止版への修正
+- 利用者から、対象サイト選択・通常テキスト素材取得は確認済み、現ページの通常掲載可否・自由文言/CSS/属性条件・個別回答は未確認と明示された。最新指示は「原文コード保持の実装準備まで」。当初の公開承認を根拠に先へ進めない。
+- 初回候補909d5ecを本番反映せず、最終コードは原文アンカー/画像/文言をtemplate内に保持し、可視CTA・previewMode・PR/プライバシーの停止表示を維持。active化はローカルのテスト内だけ。必須4件とGA4/SEO/ブラウザを最終状態で再実行。
+- ブランチpushは成功、PR作成は通常/権限昇格ともGitHub GraphQL Forbidden（終了1）。手動作成URLと本文はレビュー文書に保存。mainは変更せず、公開反映/実遷移/GA4送信受信/A8反映/成果は未確認。

diff --git a/docs/project-state.md b/docs/project-state.md
@@ -4,7 +4,7 @@
 
 基準mainは58a5181（PR #8単社SEO版とSearch Console確認ファイル追加を含む）。下記の過去時点の「本番未反映」「Draft継続」は当時の記録。現在もmainはA8送客停止版。
 
-QuQuMoの発行コードを受領し、feat/ququmo-a8-link-20261026でリンク稼働候補を実装・ローカル検証。利用者は今回のマージ/公開を承認済みだが、現在の通常掲載面と素材文言/装飾条件が未確認のためマージ保留。検索広告の許可とは別に判定している。詳細と最新の未解決事項・次の作業は[今回のレビュー](ququmo-a8-review-20261026.md)。GA4はローカルキュー検証済み、実送信/管理画面受信・A8クリック/成果帰属は未確認。
+QuQuMoの発行コードを受領。対象サイトを選択して通常テキスト素材を取得したとの利用者申告あり。ただし現在の通常掲載面・素材文言/装飾条件は未確認と明示されたため、最新指示により原文を不活性templateに保持する実装準備まで。feat/ququmo-a8-link-20261026の最終headも送客停止。初回候補909d5ecの稼働コードを公開しない。PR作成は通常/権限昇格ともAPI403で失敗、ブランチpush済み。検索広告の許可とは別に判定している。詳細と最新の未解決事項・次の作業は[今回のレビュー](ququmo-a8-review-20261026.md)。GA4はローカルキュー検証済み、実送信/管理画面受信・A8クリック/成果帰属は未確認。
 
 更新: 2026-10-15（日本時間）。コード照合の基準: main `4566158`。本ファイルは最新状態の要約であり、詳細な証跡はリンク先に置く。
 

diff --git a/docs/a8-installation.md b/docs/a8-installation.md
@@ -1,6 +1,6 @@
 # QuQuMo A8広告コードの設置・確認手順
 
-2026-10-26更新: 実コード受領済み。mainは停止版のまま、作業ブランチに稼働候補を実装。[最新の条件確認・実装・検証と公開判定](ququmo-a8-review-20261026.md)を参照。以下は準備時点の手順であり、検索広告の許可は通常掲載と別判定する。
+2026-10-26更新: 実コード受領済み。mainは停止版のまま、作業ブランチでも原文コードを不活性templateへ保持し、送客・画像通信は停止。最新利用者指示は実装準備まで。[最新の条件確認・実装・検証と公開判定](ququmo-a8-review-20261026.md)を参照。以下は準備時点の手順であり、検索広告の許可は通常掲載と別判定する。
 
 状態: 設置準備のみ、外部送客停止。実広告コードは未受領。会員向け情報や内部資料はこの文書に記載しない。
 

diff --git a/README.md b/README.md
@@ -12,4 +12,4 @@ Chat・Work・Codex 共通の引き継ぎ先はこのリポジトリです。会
 
 最新mainはPR #8の単社SEO版とSearch Console確認ファイルを含みます。A8送客は停止中です。
 
-[QuQuMo A8リンク実装候補・条件確認・テスト](docs/ququmo-a8-review-20261026.md)：作業ブランチで検証済み。通常掲載/素材条件の確認待ちでmainへのマージは保留しています。
+[QuQuMo A8原文コードの保持・条件確認・テスト](docs/ququmo-a8-review-20261026.md)：原文を不活性templateへ保持し、送客停止のまま検証済み。通常掲載/素材条件は未確認。最新指示により実装準備まで、マージ・公開は行いません。API403でPRは未作成、作業ブランチはpush済みです。
